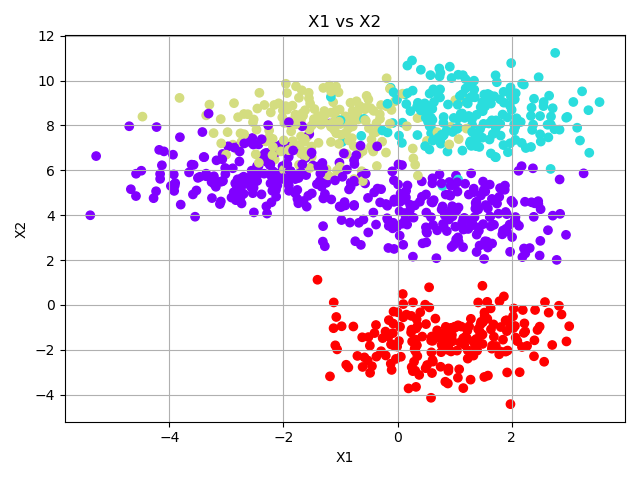
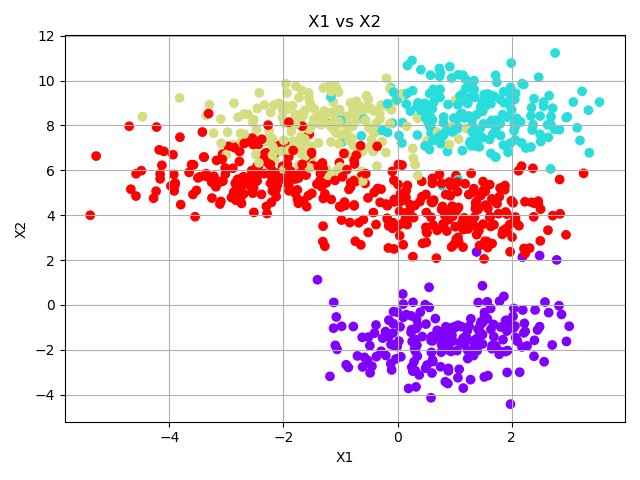
Upload to svc. Module 4, exercise 1. Added three different methods to compute or estimate de optimum amount of clusters: elbow method, dendrogram and gap method. Clusters computed by two methods: Clusters method (Euclidean distance) and K-means method. Luis Neumann. October 30th., 2021.

diff --git a/exercises/module4_part_1/src/KMeans.py b/exercises/module4_part_1/src/KMeans.py
@@ -1,9 +1,7 @@
-# Clusters.
+# K-means.
 import warnings
 
-import matplotlib.pyplot as plt
-import scipy.cluster.hierarchy as sch  # https://docs.scipy.org/doc/scipy/reference/cluster.hierarchy.html
-from sklearn.cluster import AgglomerativeClustering
+from sklearn.cluster import KMeans
 
 from ClusterPlotter import plot2D, plot3D
 from DataDelegate import getDataFrame
@@ -11,8 +9,9 @@ from FileManager import getOutputPath
 
 # Constant.
 NUM_CLUSTERS = 4
-AFFINITY = "euclidean"
-LINKAGE = "average"
+MAX_ITERATIONS = 10
+INITIALIZE_CLUSTERS = "k-means++"
+CONVERGENCE_TOLERANCE = 0.001
 
 # Configure.
 warnings.filterwarnings("ignore")
@@ -37,16 +36,23 @@ plot2D(sourceMatrix["X2"], sourceMatrix["X3"], sourceMatrix["X1"], "hsv", "X2", 
 plot3D(-7., 5., -6., 13., -12., 13., 1000, sourceMatrix["X1"], sourceMatrix["X2"], sourceMatrix["X3"], "X1", "X2", "X3",
        sourceMatrix["X3"], "hsv")
 
-# Dendrogram.
-dendrogram = sch.dendrogram(sch.linkage(sourceMatrix, method=LINKAGE, metric=AFFINITY))
-plt.title("Dendrogram")
-plt.xlabel("Dot")
-plt.ylabel("Euclidean distances")
-plt.show()
+# K-means method.
+# Object KMeans.
+kMeansEngine = KMeans(n_clusters=NUM_CLUSTERS, max_iter=MAX_ITERATIONS, init=INITIALIZE_CLUSTERS,
+                      tol=CONVERGENCE_TOLERANCE)
 
-# Cluster method.
-clusterModel = AgglomerativeClustering(n_clusters=NUM_CLUSTERS, affinity=AFFINITY, linkage=LINKAGE)
-tags = clusterModel.fit_predict(sourceMatrix)
+# Calculate Kmeans.
+kMeansModel = kMeansEngine.fit(sourceMatrix)
+
+# Obtain inertia.
+print("K-means model inertia = ", kMeansEngine.inertia_)
+
+# Get centroids.
+centroids = kMeansModel.cluster_centers_
+print("Centroids: ", centroids)
+
+# Cluster tags.
+tags = kMeansModel.predict(sourceMatrix)
 sourceMatrix["Tag"] = tags
 print(sourceMatrix.head())
 

diff --git a/exercises/module4_part_1/src/Dendrogram.py b/exercises/module4_part_1/src/Dendrogram.py
@@ -1,32 +1,16 @@
-import os
 import warnings
 
 import matplotlib.pyplot as plt
-import pandas as pd
 from scipy.cluster.hierarchy import dendrogram, linkage
+
+from DataDelegate import getDataFrame
 
 # Configure.
 warnings.filterwarnings("ignore")
-pd.set_option("display.max_columns", None)
-pd.set_option("display.max_rows", None)
-pd.options.display.float_format = "{:,.5f}".format
 
 # Constant.
 METRIC = "euclidean"
 METHOD = "average"
-
-# inputPath to the CSV file.
-inputPath = os.path.join(os.path.expanduser("~"), "development", "dgef-data-science",
-                         "exercises", "module4_part_1",
-                         "data", "base-ejercicio-tarea-clusters.csv")
-
-# Prints the absolute inputPath to the CSV file.
-print("The input CSV file is: ", inputPath)
-
-# Reads the CSV data file.
-sourceMatrix = pd.read_csv(inputPath, dtype="str", encoding="ISO-8859-1")
-sourceMatrix[sourceMatrix.columns] = sourceMatrix[sourceMatrix.columns].astype(float)
-print(sourceMatrix.head())
 
 
 # Dendrogram.
@@ -52,4 +36,4 @@ def plotDendrogram(dataSet):
 
 
 if __name__ == "__main__":
-    plotDendrogram(sourceMatrix)
+    plotDendrogram(getDataFrame("base-ejercicio-tarea-clusters.csv"))

diff --git a/exercises/module4_part_1/src/ElbowMethod.py b/exercises/module4_part_1/src/ElbowMethod.py
@@ -1,0 +1,40 @@
+import matplotlib.pyplot as plt
+from sklearn.cluster import KMeans
+
+from DataDelegate import getDataFrame
+
+# Constant.
+LOOPS = 20
+MAX_ITERATIONS = 10
+INITIALIZE_CLUSTERS = "k-means++"
+CONVERGENCE_TOLERANCE = 0.001
+
+
+def plotElbow(inertials):
+    x, y = zip(*[inertia for inertia in inertials])
+    plt.plot(x, y, "ro-", markersize=8, lw=2)
+    plt.grid(True)
+    plt.xlabel("Num. Clusters")
+    plt.ylabel("Inertia")
+    plt.show()
+
+
+def selectClusters(dataSet, loops, max_iterations, init_cluster, tolerance):
+    inertia_clusters = list()
+
+    for i in range(1, loops + 1, 1):
+        # Object KMeans
+        kMeansEngine = KMeans(n_clusters=i, max_iter=max_iterations, init=init_cluster, tol=tolerance)
+
+        # Calculate Kmeans
+        kMeansEngine.fit(dataSet)
+
+        # Obtain inertia
+        inertia_clusters.append([i, kMeansEngine.inertia_])
+
+    plotElbow(inertia_clusters)
+
+
+if __name__ == "__main__":
+    selectClusters(getDataFrame("base-ejercicio-tarea-clusters.csv"), LOOPS, MAX_ITERATIONS, INITIALIZE_CLUSTERS,
+                   CONVERGENCE_TOLERANCE)

diff --git a/exercises/module4_part_1/src/ClusterPlotter.py b/exercises/module4_part_1/src/ClusterPlotter.py
@@ -1,0 +1,36 @@
+import matplotlib.pyplot as plt
+import numpy as np
+
+
+# 2D data plot function.
+def plot2D(X, Y, colors, colorMap, xLabel, yLabel, plotTitle, outputPath):
+    plotFigureXvsY, ax = plt.subplots()
+    ax.set(xlabel=xLabel, ylabel=yLabel, title=plotTitle)
+    ax.grid(True)
+    ax.scatter(X, Y, c=colors, cmap=colorMap)
+    plotFigureXvsY.tight_layout()
+
+    plotFigureXvsY.savefig(outputPath)
+
+    plt.show()
+
+
+# 3D data plot function.
+def plot3D(xMin, xMax, yMin, yMax, zMin, zMax, sampleNumber, xData, yData, zData, xLabel, yLabel, zLabel, colors,
+           colorMap):
+    ax3D = plt.axes(projection="3d")
+
+    # Data for a three-dimensional line.
+    zLine = np.linspace(zMin, zMax, num=sampleNumber)
+    xLine = np.linspace(xMin, xMax, num=sampleNumber)
+    yLine = np.linspace(yMin, yMax, num=sampleNumber)
+    ax3D.plot3D(xLine, yLine, zLine, "gray")
+
+    # Orthogonal.
+    ax3D.view_init(30, 60)
+
+    ax3D.set_xlabel(xLabel)
+    ax3D.set_ylabel(yLabel)
+    ax3D.set_zlabel(zLabel)
+    ax3D.scatter3D(xData, yData, zData, c=colors, cmap=colorMap);
+    plt.show()

diff --git a/exercises/module4_part_1/src/FileManager.py b/exercises/module4_part_1/src/FileManager.py
@@ -1,0 +1,25 @@
+import os
+
+
+def getInputPath(fileName):
+    # Input path to the file.
+    inputPath = os.path.join(os.path.expanduser("~"), "development", "dgef-data-science",
+                             "exercises", "module4_part_1",
+                             "data", fileName)
+
+    # Prints the absolute input path to the CSV file.
+    print("The input CSV file is: ", inputPath)
+
+    return inputPath
+
+
+def getOutputPath(fileName):
+    # Output path for the file.
+    outputPath = os.path.join(os.path.expanduser("~"), "development", "dgef-data-science",
+                              "exercises", "module4_part_1",
+                              "output", fileName)
+
+    # Prints the absolute output path to the CSV file.
+    print("The output PNG file is: ", outputPath)
+
+    return outputPath

diff --git a/exercises/module4_part_1/src/Gap.py b/exercises/module4_part_1/src/Gap.py
@@ -1,0 +1,27 @@
+import matplotlib.pyplot as plt
+import numpy as np
+from scipy.cluster.hierarchy import linkage
+
+from DataDelegate import getDataFrame
+
+# Constant.
+METRIC = "euclidean"
+METHOD = "average"
+
+
+def plotGap(dataSet):
+    # Calculate distances between points or groups of points
+    Z = linkage(dataSet, metric=METRIC, method=METHOD)
+
+    # Obtain the last 10 distances between points
+    last = Z[-10:, 2]
+    num_clustres = np.arange(1, len(last) + 1)
+
+    # Calculate Gap
+    gap = np.diff(last, n=2)  # second derivative
+    plt.plot(num_clustres[:-2] + 1, gap[::-1], "ro-", markersize=8, lw=2)
+    plt.show()
+
+
+if __name__ == "__main__":
+    plotGap(getDataFrame("base-ejercicio-tarea-clusters.csv"))

diff --git a/exercises/module4_part_1/src/DataDelegate.py b/exercises/module4_part_1/src/DataDelegate.py
@@ -1,0 +1,18 @@
+import pandas as pd
+
+from FileManager import getInputPath
+
+# Configure.
+pd.set_option("display.max_columns", None)
+pd.set_option("display.max_rows", None)
+pd.options.display.float_format = "{:,.5f}".format
+
+
+def getDataFrame(fileName):
+    dataFrame = pd.read_csv(getInputPath(fileName), dtype="str", encoding="ISO-8859-1")
+
+    dataFrame[dataFrame.columns] = dataFrame[dataFrame.columns].astype(float)
+
+    print(dataFrame.head())
+
+    return dataFrame
